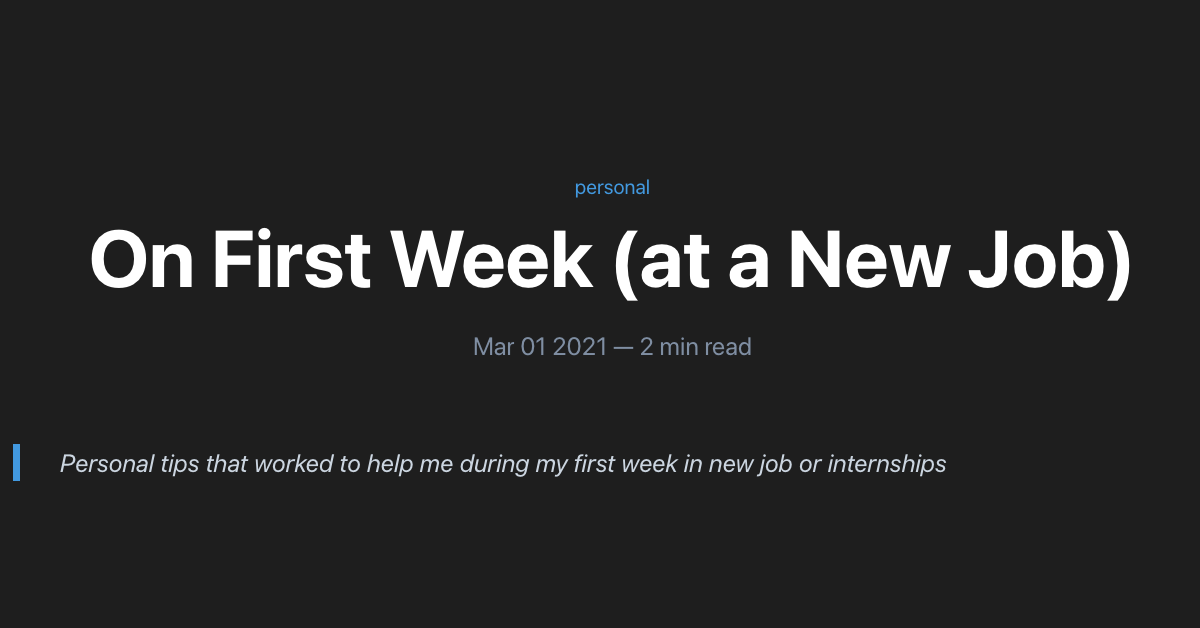
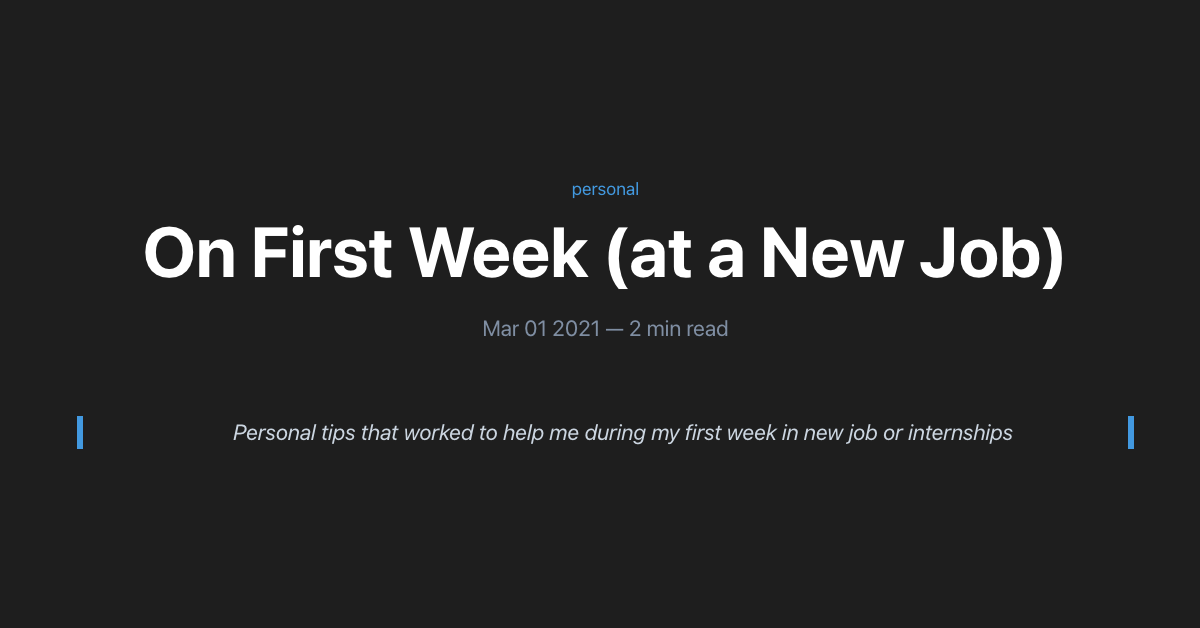
Customize blockquote style

diff --git a/src/gatsby-plugin-theme-ui/index.js b/src/gatsby-plugin-theme-ui/index.js
@@ -101,11 +101,15 @@ const theme = merge(tailwind, {
       borderLeftColor: `primary`,
       borderLeftStyle: `solid`,
       borderLeftWidth: `6px`,
+      borderRightColor: `primary`,
+      borderRightStyle: `solid`,
+      borderRightWidth: `6px`,
       mx: 0,
       pl: 4,
       p: {
         fontStyle: `italic`,
       },
+      textAlign: "center",
     },
     table: {
       width: `100%`,
